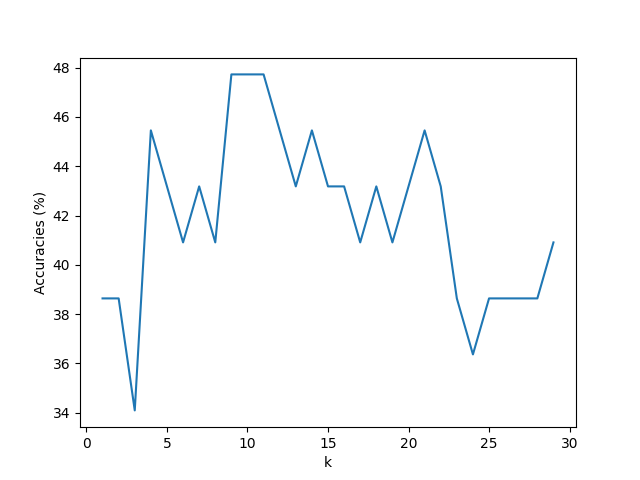
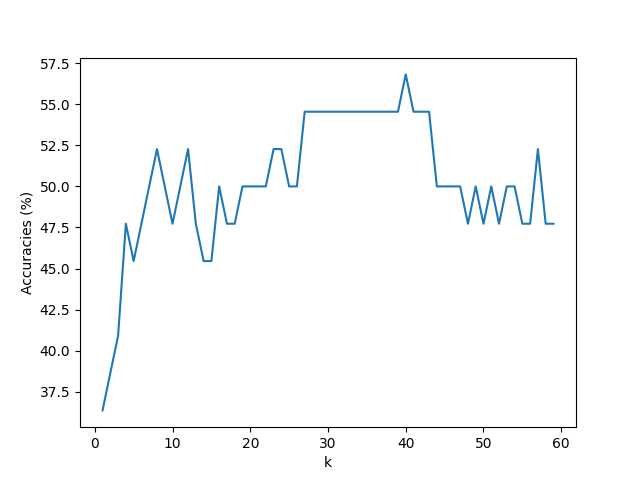
Nearest Neightbors Updated

diff --git a/nearest_neighbor.py b/nearest_neighbor.py
@@ -2,10 +2,10 @@ import numpy as np
 from scipy import stats
 import matplotlib.pyplot as plt
 
-train_sc = np.zeros((250, 685))
-train_sb = np.zeros((250, 685))
-train_mfcc = np.zeros((5976, 685))
-train_chroma = np.zeros((25*12, 685))
+train_sc = np.zeros((250, 148*4))
+train_sb = np.zeros((250, 148*4))
+train_mfcc = np.zeros((5976, 148*4))
+train_chroma = np.zeros((25*12, 148*4))
 
 test_sc = np.zeros((250, 44))
 test_sb = np.zeros((250, 44))
@@ -59,7 +59,7 @@ for ind in range(1, 730):
         test_i += 1
         label = 3 # Hype
         test_targets.append(label)
-    elif 12 <= ind <= 220:
+    elif 12 <= ind <= 12+147:
         train_sc[:,train_i] = sc
         train_sb[:,train_i] = sb
         train_mfcc[:,train_i] = mfcc
@@ -67,7 +67,7 @@ for ind in range(1, 730):
         train_i += 1
         label = 0 # Happy
         train_targets.append(label)
-    elif 232 <= ind <= 379:
+    elif 232 <= ind <= 232+147:
         train_sc[:,train_i] = sc
         train_sb[:,train_i] = sb
         train_mfcc[:,train_i] = mfcc
@@ -75,7 +75,7 @@ for ind in range(1, 730):
         train_i += 1
         label = 1 # Sad
         train_targets.append(label)
-    elif 391 <= ind <= 548:
+    elif 391 <= ind <= 391+147:
         train_sc[:,train_i] = sc
         train_sb[:,train_i] = sb
         train_mfcc[:,train_i] = mfcc
@@ -83,7 +83,7 @@ for ind in range(1, 730):
         train_i += 1
         label = 2 # Calm
         train_targets.append(label)
-    elif 560 <= ind <= 729:
+    elif 560 <= ind <= 560+147:
         train_sc[:,train_i] = sc
         train_sb[:,train_i] = sb
         train_mfcc[:,train_i] = mfcc
@@ -92,15 +92,15 @@ for ind in range(1, 730):
         label = 3 # Hype
         train_targets.append(label)
 
-for k in range(1, 30): 
+for k in range(1, 60):
 
     pred_labels = []
 
     for j in range(test_sc.shape[1]): 
-        sc_diff = train_sc - np.tile(test_sc[:,j], (685,1)).T
-        sb_diff = train_sb - np.tile(test_sb[:,j], (685,1)).T
-        mfcc_diff = train_mfcc - np.tile(test_mfcc[:,j], (685,1)).T
-        chroma_diff = train_chroma - np.tile(test_chroma[:,j], (685,1)).T
+        sc_diff = train_sc - np.tile(test_sc[:,j], (148*4,1)).T
+        sb_diff = train_sb - np.tile(test_sb[:,j], (148*4,1)).T
+        mfcc_diff = train_mfcc - np.tile(test_mfcc[:,j], (148*4,1)).T
+        chroma_diff = train_chroma - np.tile(test_chroma[:,j], (148*4,1)).T
 
         sc_norm = np.linalg.norm(sc_diff,axis = 0)
         sb_norm = np.linalg.norm(sb_diff,axis = 0)
@@ -124,7 +124,7 @@ for k in range(1, 30):
     num_correct = np.sum(np.array(pred_labels) == np.array(test_targets))
     accuracies.append(num_correct*100/len(test_targets))
 
-plt.plot(range(1, 30), accuracies)
+plt.plot(range(1, 60), accuracies)
 plt.xlabel('k')
 plt.ylabel('Accuracies (%)')
 plt.savefig('k_neighbors.png')
